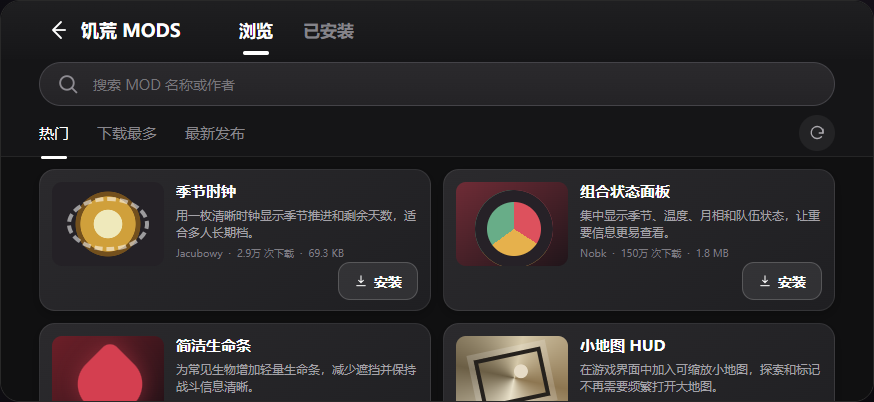
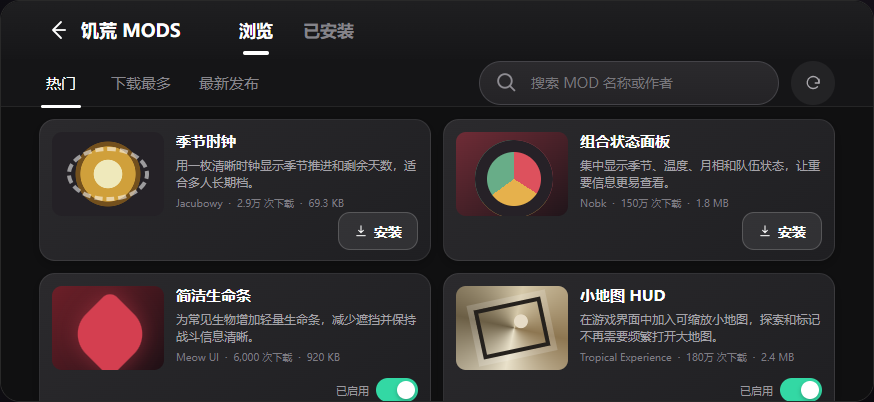
fix(mods): move landscape search beside refresh

diff --git a/demos/Mod与发行人/APP端MODS功能demo.html b/demos/Mod与发行人/APP端MODS功能demo.html
@@ -461,6 +461,11 @@
       border-bottom: 1px solid rgba(255,255,255,.065);
       background: #151517;
     }
+    .sort-tabs {
+      display: flex;
+      align-items: center;
+      gap: 24px;
+    }
     .sort-tab, .filter-tab {
       position: relative;
       height: 38px;
@@ -718,12 +723,6 @@
     }
     .device.landscape .primary-tab { height: 42px; font-size: 17px; }
     .device.landscape .primary-tab.is-active::after { bottom: -4px; }
-    .device.landscape .search-section {
-      width: 100%;
-      height: 50px;
-      padding: 3px 38px;
-      background: #151517;
-    }
     .device.landscape .search-row { height: 44px; font-size: 16px; }
     .device.landscape .search-row input { font-size: 14px; }
     .device.landscape .sort-section {
@@ -731,8 +730,26 @@
       padding: 0 38px;
       gap: 28px;
     }
+    .device.landscape .mods-screen:not(.is-installed) .sort-section { gap: 12px; }
+    .device.landscape .sort-tabs { gap: 28px; }
+    .device.landscape .mods-screen:not(.is-installed) .sort-tab {
+      min-width: 44px;
+      height: 44px;
+    }
+    .device.landscape .mods-screen:not(.is-installed) .sort-tab.is-active::after { bottom: -3px; }
+    .device.landscape .toolbar-search {
+      width: 300px;
+      height: 44px;
+      margin-left: auto;
+      padding: 0 14px;
+    }
+    .device.landscape .mods-screen:not(.is-installed) .sort-section .refresh-small {
+      width: 44px;
+      height: 44px;
+      margin-left: 0;
+    }
     .device.landscape .mods-scroll {
-      top: 156px;
+      top: 106px;
       padding: 12px 38px 24px;
     }
     .device.landscape .mods-screen.is-installed .mods-scroll { top: 58px; }
@@ -1095,6 +1112,10 @@
     const taskTimers = new Map();
     let focusReturnSelector = '';
     let pendingFocusSelector = '';
+    let isSearchComposing = false;
+    let pendingOrientationSearchSelection = null;
+    let pendingOrientation = null;
+    let restoreCycle = 0;
     const root = document.querySelector('[data-demo-root]');
 
     function icon(name) {
@@ -1175,19 +1196,37 @@
       if (detail) state.detailScroll = detail.scrollTop;
     }
 
-    function restoreScroll(focusSearch = false) {
+    function activeSearchSelection() {
+      const input = root.querySelector('[data-search]');
+      if (!input || document.activeElement !== input) return null;
+      return {
+        start: input.selectionStart,
+        end: input.selectionEnd,
+        direction: input.selectionDirection
+      };
+    }
+
+    function restoreSearchInput(searchSelection = null) {
+      const input = root.querySelector('[data-search]');
+      if (!input) return;
+      input.focus();
+      const start = searchSelection?.start ?? input.value.length;
+      const end = searchSelection?.end ?? start;
+      input.setSelectionRange(
+        Math.min(start, input.value.length),
+        Math.min(end, input.value.length),
+        searchSelection?.direction || 'none'
+      );
+    }
+
+    function restoreScroll(focusSearch = false, searchSelection = null) {
+      const cycle = ++restoreCycle;
       requestAnimationFrame(() => {
         const list = root.querySelector('[data-mod-scroll]');
         if (list) list.scrollTop = state.scrollByTab[state.tab] || 0;
         const detail = root.querySelector('[data-detail-scroll]');
         if (detail) detail.scrollTop = state.detailScroll || 0;
-        if (focusSearch) {
-          const input = root.querySelector('[data-search]');
-          if (input) {
-            input.focus();
-            input.setSelectionRange(input.value.length, input.value.length);
-          }
-        }
+        if (focusSearch && cycle === restoreCycle) restoreSearchInput(searchSelection);
         if (pendingFocusSelector) {
           const target = root.querySelector(pendingFocusSelector);
           pendingFocusSelector = '';
@@ -1227,7 +1266,7 @@
           state.search = event.value;
           state.scrollByTab.browse = 0;
           render();
-          restoreScroll(true);
+          restoreScroll(true, event.selection || null);
           return cloneState();
         case 'SET_INSTALLED_FILTER':
           state.installedFilter = event.value === 'updates' ? 'updates' : 'all';
@@ -1282,6 +1321,9 @@
           taskTimers.forEach(timer => clearInterval(timer));
           taskTimers.clear();
           state = initialState();
+          isSearchComposing = false;
+          pendingOrientationSearchSelection = null;
+          pendingOrientation = null;
           break;
       }
       render();
@@ -1289,10 +1331,19 @@
       return cloneState();
     }
 
-    function rotateTo(orientation) {
+    function rotateTo(orientation, preservedSearchSelection = null) {
+      const nextOrientation = orientation === 'landscape' ? 'landscape' : 'portrait';
+      const searchSelection = preservedSearchSelection || activeSearchSelection();
+      if (isSearchComposing) {
+        pendingOrientation = nextOrientation === state.orientation
+          ? null
+          : { value: nextOrientation };
+        return cloneState();
+      }
       saveScroll();
-      state.orientation = orientation === 'landscape' ? 'landscape' : 'portrait';
+      state.orientation = nextOrientation;
       render();
+      if (searchSelection) restoreSearchInput(searchSelection);
       restoreScroll();
       return cloneState();
     }
@@ -1416,6 +1467,8 @@
     function renderMods() {
       const { visibleMods } = derive();
       const browse = state.tab === 'browse';
+      const searchField = `<label class="search-row">${icon('search')}<input data-search aria-label="搜索 MOD" placeholder="搜索 MOD 名称或作者" value="${state.search.replaceAll('"', '&quot;')}"></label>`;
+      const toolbarSearchField = searchField.replace('class="search-row"', 'class="search-row toolbar-search"');
       const noInstalledMods = state.installed.length === 0;
       const emptyTitle = browse
         ? '没有找到相关 MOD'
@@ -1440,15 +1493,16 @@
             <button class="primary-tab ${browse ? '' : 'is-active'}" type="button" role="tab" aria-selected="${!browse}" data-tab="installed">已安装</button>
           </nav>
           ${browse ? `
-            <div class="search-section">
-              <label class="search-row">${icon('search')}<input data-search aria-label="搜索 MOD" placeholder="搜索 MOD 名称或作者" value="${state.search.replaceAll('"', '&quot;')}"></label>
-            </div>
-            <div class="sort-section" role="tablist" aria-label="浏览排序">
-              ${[
-                ['hot', '热门'],
-                ['downloads', '下载最多'],
-                ['published', '最新发布']
-              ].map(([value, label]) => `<button class="sort-tab ${state.sort === value ? 'is-active' : ''}" type="button" role="tab" aria-selected="${state.sort === value}" data-sort="${value}">${label}</button>`).join('')}
+            ${state.orientation === 'portrait' ? `<div class="search-section">${searchField}</div>` : ''}
+            <div class="sort-section">
+              <div class="sort-tabs" role="tablist" aria-label="浏览排序">
+                ${[
+                  ['hot', '热门'],
+                  ['downloads', '下载最多'],
+                  ['published', '最新发布']
+                ].map(([value, label]) => `<button class="sort-tab ${state.sort === value ? 'is-active' : ''}" type="button" role="tab" aria-selected="${state.sort === value}" data-sort="${value}">${label}</button>`).join('')}
+              </div>
+              ${state.orientation === 'landscape' ? toolbarSearchField : ''}
               <button class="refresh-small ${state.refreshing ? 'is-loading' : ''}" type="button" data-action="refresh" aria-label="刷新">${icon('refresh')}</button>
             </div>
           ` : `
@@ -1545,8 +1599,46 @@
       if (event.target.matches('[data-detail-scroll]')) state.detailScroll = event.target.scrollTop;
     }, true);
 
+    root.addEventListener('compositionstart', event => {
+      if (event.target.matches('[data-search]')) isSearchComposing = true;
+    });
+
+    root.addEventListener('compositionend', event => {
+      if (!event.target.matches('[data-search]')) return;
+      const deferredOrientation = pendingOrientation;
+      pendingOrientation = null;
+      const selection = {
+        start: event.target.selectionStart,
+        end: event.target.selectionEnd,
+        direction: event.target.selectionDirection
+      };
+      isSearchComposing = false;
+      dispatch({
+        type: 'SET_SEARCH',
+        value: event.target.value,
+        selection
+      });
+      if (deferredOrientation) {
+        rotateTo(deferredOrientation.value, selection);
+      }
+    });
+
     root.addEventListener('input', event => {
-      if (event.target.matches('[data-search]')) dispatch({ type: 'SET_SEARCH', value: event.target.value });
+      if (!event.target.matches('[data-search]')) return;
+      if (isSearchComposing || event.isComposing) {
+        state.search = event.target.value;
+        state.scrollByTab.browse = 0;
+        return;
+      }
+      dispatch({
+        type: 'SET_SEARCH',
+        value: event.target.value,
+        selection: {
+          start: event.target.selectionStart,
+          end: event.target.selectionEnd,
+          direction: event.target.selectionDirection
+        }
+      });
     });
 
     root.addEventListener('keydown', event => {
@@ -1630,11 +1722,21 @@
       }
     });
 
+    document.addEventListener('pointerdown', event => {
+      const control = event.target.closest('[data-review-action="portrait"], [data-review-action="landscape"]');
+      if (!control) return;
+      pendingOrientationSearchSelection = activeSearchSelection();
+      if (pendingOrientationSearchSelection) event.preventDefault();
+    });
+
     document.addEventListener('click', event => {
       const control = event.target.closest('[data-review-action]');
       if (!control) return;
       const action = control.dataset.reviewAction;
-      if (action === 'portrait' || action === 'landscape') rotateTo(action);
+      if (action === 'portrait' || action === 'landscape') {
+        rotateTo(action, pendingOrientationSearchSelection);
+        pendingOrientationSearchSelection = null;
+      }
       if (action === 'game') dispatch({ type: 'BACK_GAME' });
       if (action === 'browse') {
         state.screen = 'mods';

diff --git a/docs/superpowers/specs/2026-07-31-app-mods-demo-prd-design.md b/docs/superpowers/specs/2026-07-31-app-mods-demo-prd-design.md
@@ -11,6 +11,7 @@
 |2026-07-31|V1.4|补充横屏约束：搜索框不得与主 Tab 同行，横竖屏均独占主 Tab 下方一行|
 |2026-07-31|V1.5|横屏更多菜单改为内容自适应高度，只容纳 5+4 两行入口，不预留第三行空白|
 |2026-07-31|V1.6|浏览页竖屏搜索仍独占一行；横屏搜索并入排序工具栏，位于刷新左侧|
+|2026-07-31|V1.7|横屏浏览工具栏补足最小触控热区；输入法组词期间延迟旋转，组词结束后执行|
 
 ## 目标
 
@@ -101,7 +102,8 @@
 - 竖屏基准 390×844，横屏基准 874×402。
 - 旋转只重排布局，不重新请求目录、不重建下载任务。
 - 必须保留当前页面、主 Tab、排序子 Tab、浏览搜索词、已安装筛选、列表滚动锚点、当前 MOD、详情阅读位置、安装进度和启用值。
-- 搜索框处于焦点时旋转，旋转后恢复搜索焦点和光标位置；输入法正在组词时不主动重绘搜索框。
+- 搜索框处于焦点时旋转，旋转后恢复搜索焦点和光标位置。
+- 输入法正在组词时不重绘搜索框；若此时发生多次方向切换，组词结束后只执行最后一个有效目标方向。
 - 横竖屏属于同一 APP 设备；状态不会同步到 Mac 或其他 APP 设备。
 
 ## 状态与异常
@@ -135,7 +137,7 @@
 
 1. 更多菜单仅两行且每行不超过五项，9 个入口无遗漏；横屏弹层不预留第三行空白。
 2. 创意工坊与 MODS 为两个独立入口，页面内不混用订阅和安装文案。
-3. 竖屏浏览按“主 Tab → 独占行搜索 → 排序 → 列表”排列；横屏浏览按“主 Tab → 排序 / 搜索 / 刷新同一工具栏 → 列表”排列，搜索紧靠刷新左侧；默认排序为“热门”。
+3. 竖屏浏览按“主 Tab → 独占行搜索 → 排序 → 列表”排列；横屏浏览按“主 Tab → 排序 / 搜索 / 刷新同一工具栏 → 列表”排列，搜索紧靠刷新左侧，所有工具栏控件满足最小触控热区；默认排序为“热门”。
 4. 已安装页不显示搜索，保留筛选、刷新和卡片快捷开关。
 5. 竖屏单列、横屏双列；详情分别为覆盖层和左右分栏宽弹层。
 6. 卡片和详情不显示兼容性、最新版本、非官方标签。

diff --git a/docs/superpowers/plans/2026-07-31-app-mods-demo-prd.md b/docs/superpowers/plans/2026-07-31-app-mods-demo-prd.md
@@ -385,6 +385,7 @@ assert.equal(layout.searchAndRefreshAligned, true);
 assert.equal(layout.searchBeforeRefresh, true);
 assert.equal(layout.listFollowsToolbar, true);
 assert.deepEqual(layout.focusOrder, ['hot', 'downloads', 'published', 'search', 'refresh']);
+assert.equal(layout.touchTargetsAtLeast44, true);
 ```
 
 输入搜索词，将焦点和光标停在词中间后旋转，断言：
@@ -434,15 +435,23 @@ ${state.orientation === 'portrait' ? `<div class="search-section">${searchField}
 }
 .device.landscape .toolbar-search {
   width: 300px;
-  height: 38px;
+  height: 44px;
   margin-left: auto;
   padding: 0 14px;
 }
-.device.landscape .sort-section .refresh-small { margin-left: 0; }
+.device.landscape .mods-screen:not(.is-installed) .sort-tab {
+  min-width: 44px;
+  height: 44px;
+}
+.device.landscape .mods-screen:not(.is-installed) .sort-section .refresh-small {
+  width: 44px;
+  height: 44px;
+  margin-left: 0;
+}
 .device.landscape .mods-scroll { top: 106px; }
 ```
 
-`rotateTo()` 在重绘前记录搜索焦点和选区，重绘后恢复；输入法组合期间只更新状态，不重绘搜索框。
+`rotateTo()` 在重绘前记录搜索焦点和选区，重绘后恢复；输入法组合期间只记录最后一个有效目标方向，不重绘搜索框，`compositionend` 提交搜索后再执行延迟旋转。
 
 - [ ] **Step 4: 运行 Demo 校验并更新横屏截图**
 
